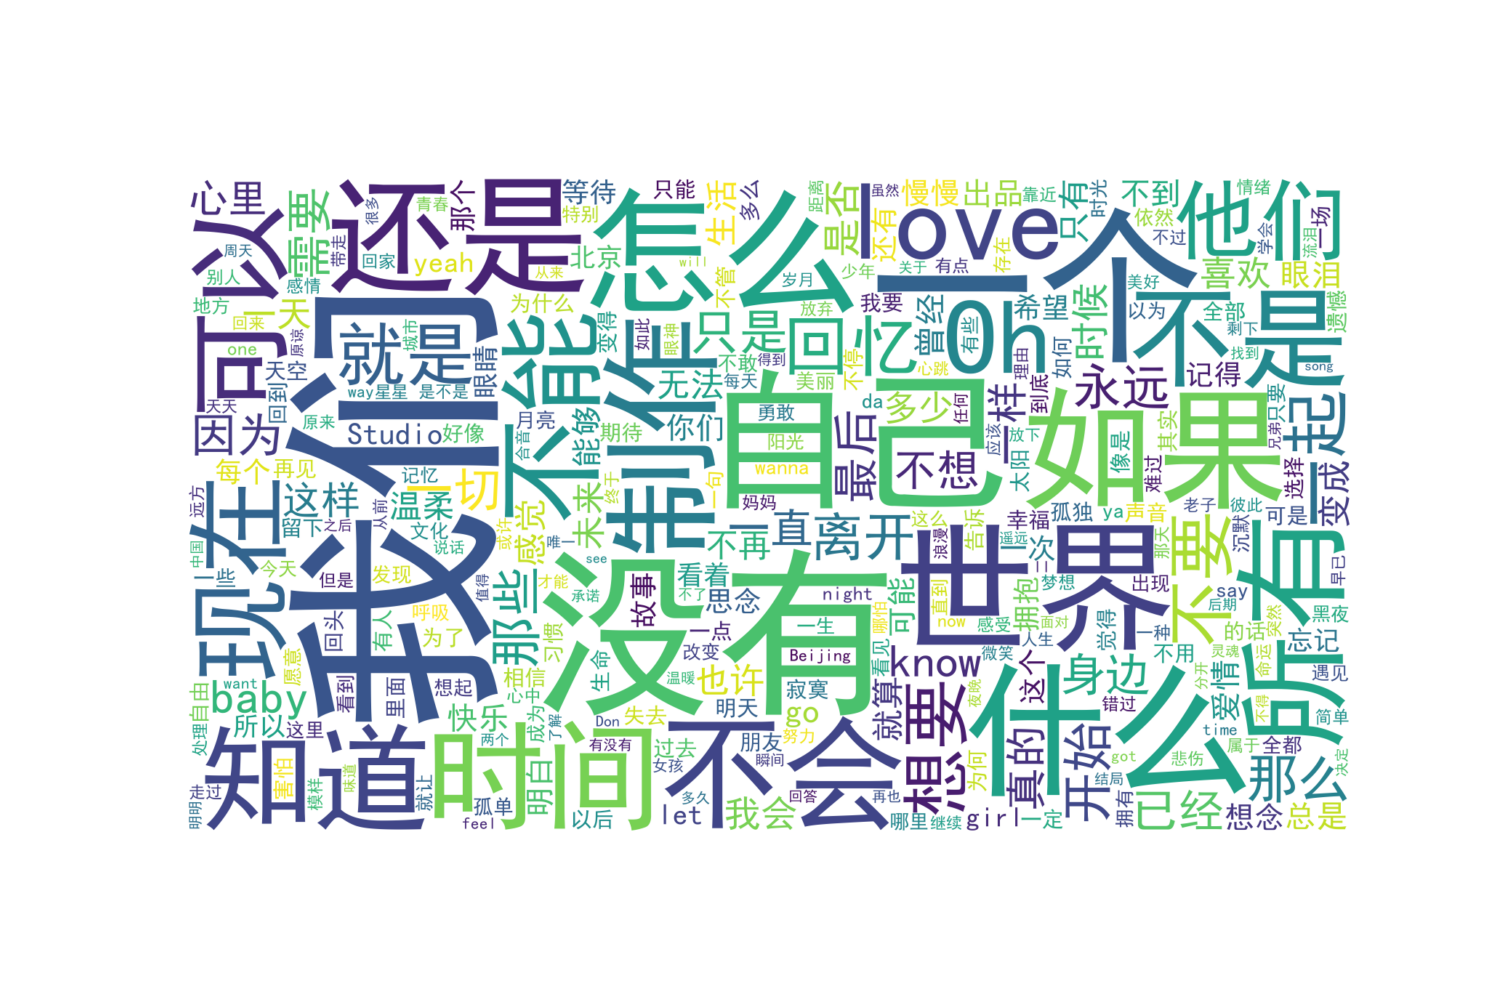
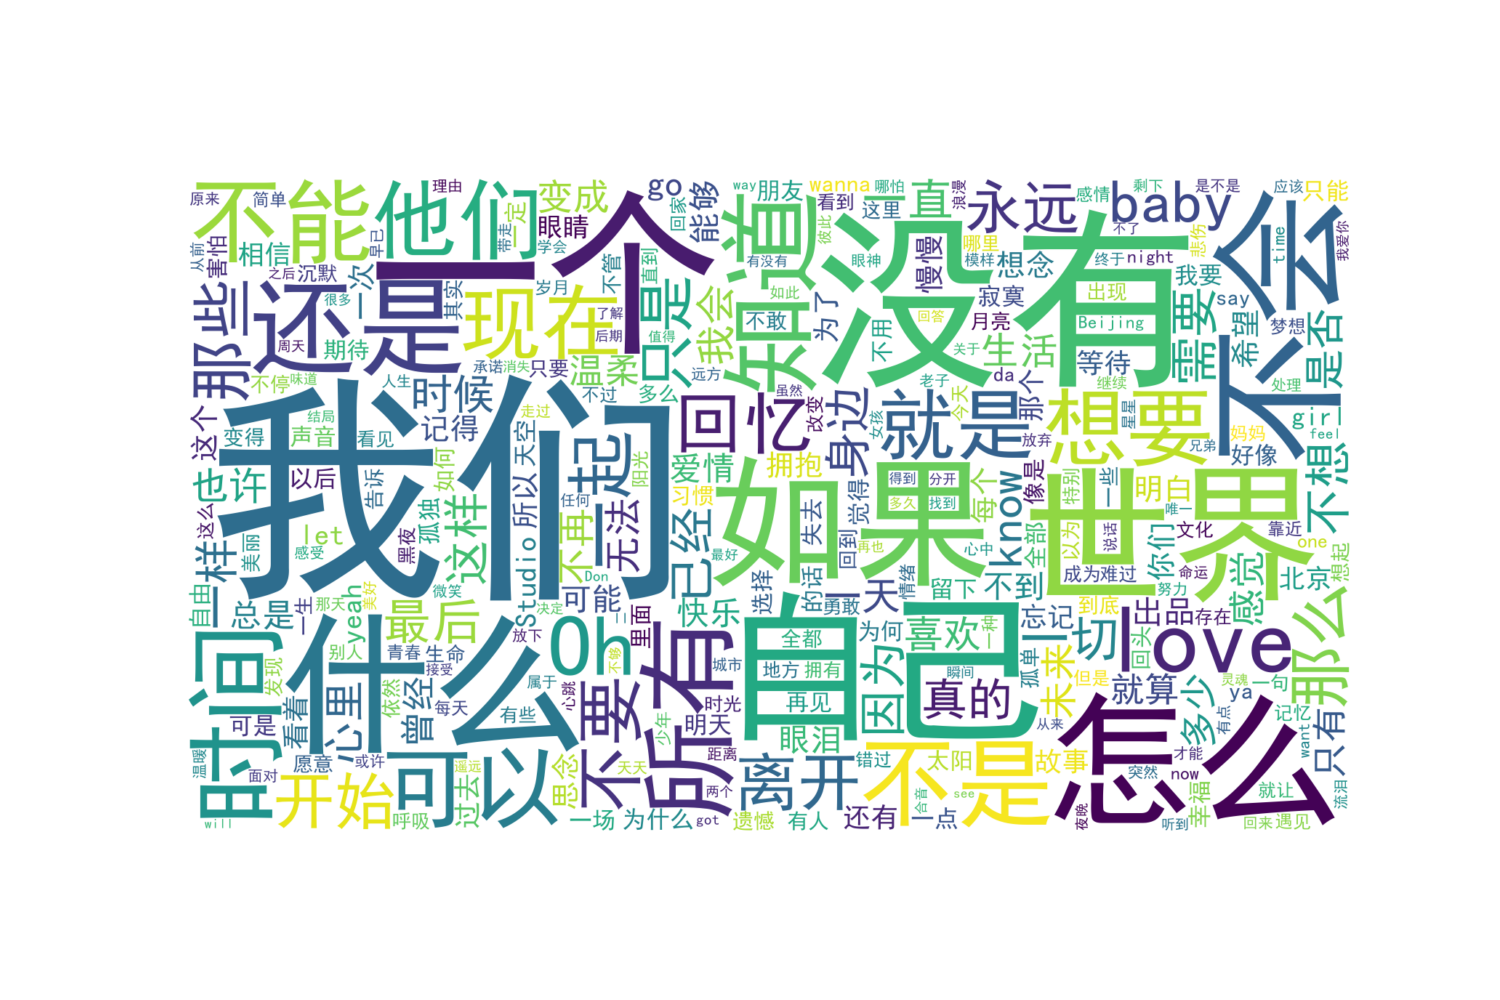
2025/7/3

diff --git a/spider.py b/spider.py
@@ -21,7 +21,7 @@ headers = {
 
 def download_songimg(image_url, save_dir, filename=None):
     """下载歌曲图片
-    
+
     通过爬到的歌曲图片url,保存为本地save_dir/filename
     Keyword arguments:
     image_url -- 图片网址
@@ -37,7 +37,7 @@ def download_songimg(image_url, save_dir, filename=None):
 
 def download_img(image_url, save_dir, filename=None):
     """下载歌手图片
-    
+
     通过爬到的歌手图片url,保存为本地save_dir/filename
     Keyword arguments:
     image_url -- 图片网址
@@ -53,11 +53,11 @@ def download_img(image_url, save_dir, filename=None):
 
 def get_lyric(song_id):
     """获取歌词
-    
+
     利用网易云api访问歌曲文件,返回的是json,提取歌词后,用正则表达式去除时间戳
     Keyword arguments:
     song_id -- 歌曲在网易云中的编号
-    
+
     返回歌词字符串
     """
     url = f"http://music.163.com/api/song/lyric?id={song_id}+&lv=1&tv=-1"
@@ -72,7 +72,7 @@ def get_lyric(song_id):
 
 def get_info():
     """爬虫的主函数
-    
+
     将爬取的内容写在指定文件中
     """
     singercsvfile = open(

diff --git a/cloud.py b/cloud.py
@@ -23,10 +23,10 @@ def load_lyrics():
 
 def processing_lyrics(text):
     """处理歌词,去掉一部分信息
-    
+
     Keyword arguments:
     text -- 所有歌词形成的字符串
-    
+
     返回处理后的字符串
     """
     prefixes = ["作词", "作曲", "演唱", "编曲", "制作人", "歌词"]
@@ -37,10 +37,10 @@ def processing_lyrics(text):
 
 def segment_text(text):
     """由于歌曲的信息各不相同，所以前面处理歌词的函数会有遗漏。手动根据词云结果添加停用词
-    
+
     Keyword arguments:
     text -- 字符串
-    
+
     返回处理后的字符串
     """
     stopwords = [
@@ -48,6 +48,7 @@ def segment_text(text):
         "h3R3",
         "总监",
         "录音",
+        "制作",
         "录音师",
         "作词",
         "出品人",
@@ -138,7 +139,7 @@ def segment_text(text):
 
 def generate_wordcloud(text):
     """生成词云
-    
+
     Keyword arguments:
     text -- 字符串
     """

diff --git a/bar.py b/bar.py
@@ -1,0 +1,43 @@
+import pandas as pd
+
+import matplotlib.pyplot as plt
+
+plt.rcParams["font.sans-serif"] = ["Microsoft YaHei"]
+
+
+data = pd.read_csv(r"C:\Users\14395\Desktop\git\MusicInfo\year.csv")
+
+data = data.dropna()
+
+
+plt.figure(figsize=(16, 8))
+bars = plt.bar(data["year"].astype(int).astype(str), data["count"])
+
+
+for bar in bars:
+    height = bar.get_height()
+    plt.text(
+        bar.get_x() + bar.get_width() / 2.0,
+        height + 5,
+        f"{int(height)}",
+        ha="center",
+        va="bottom",
+        fontsize=9,
+        rotation=45,
+    )
+
+
+plt.title("热门歌曲分布 (1986-2025)", fontsize=16, pad=20)
+plt.xlabel("年份", fontsize=12)
+plt.ylabel("数量", fontsize=12)
+plt.xticks(rotation=90)
+plt.grid(axis="y", linestyle="--", alpha=1)
+
+
+plt.tight_layout()
+plt.subplots_adjust(bottom=0.15)
+
+plt.savefig('bar.png', dpi=300)
+
+
+plt.show()

diff --git a/download_pop/processing.py b/download_pop/processing.py
@@ -1,6 +1,5 @@
 import pandas as pd
 import matplotlib.pyplot as plt
-import numpy as np
 from adjustText import adjust_text
 
 # 解释器选择全局
